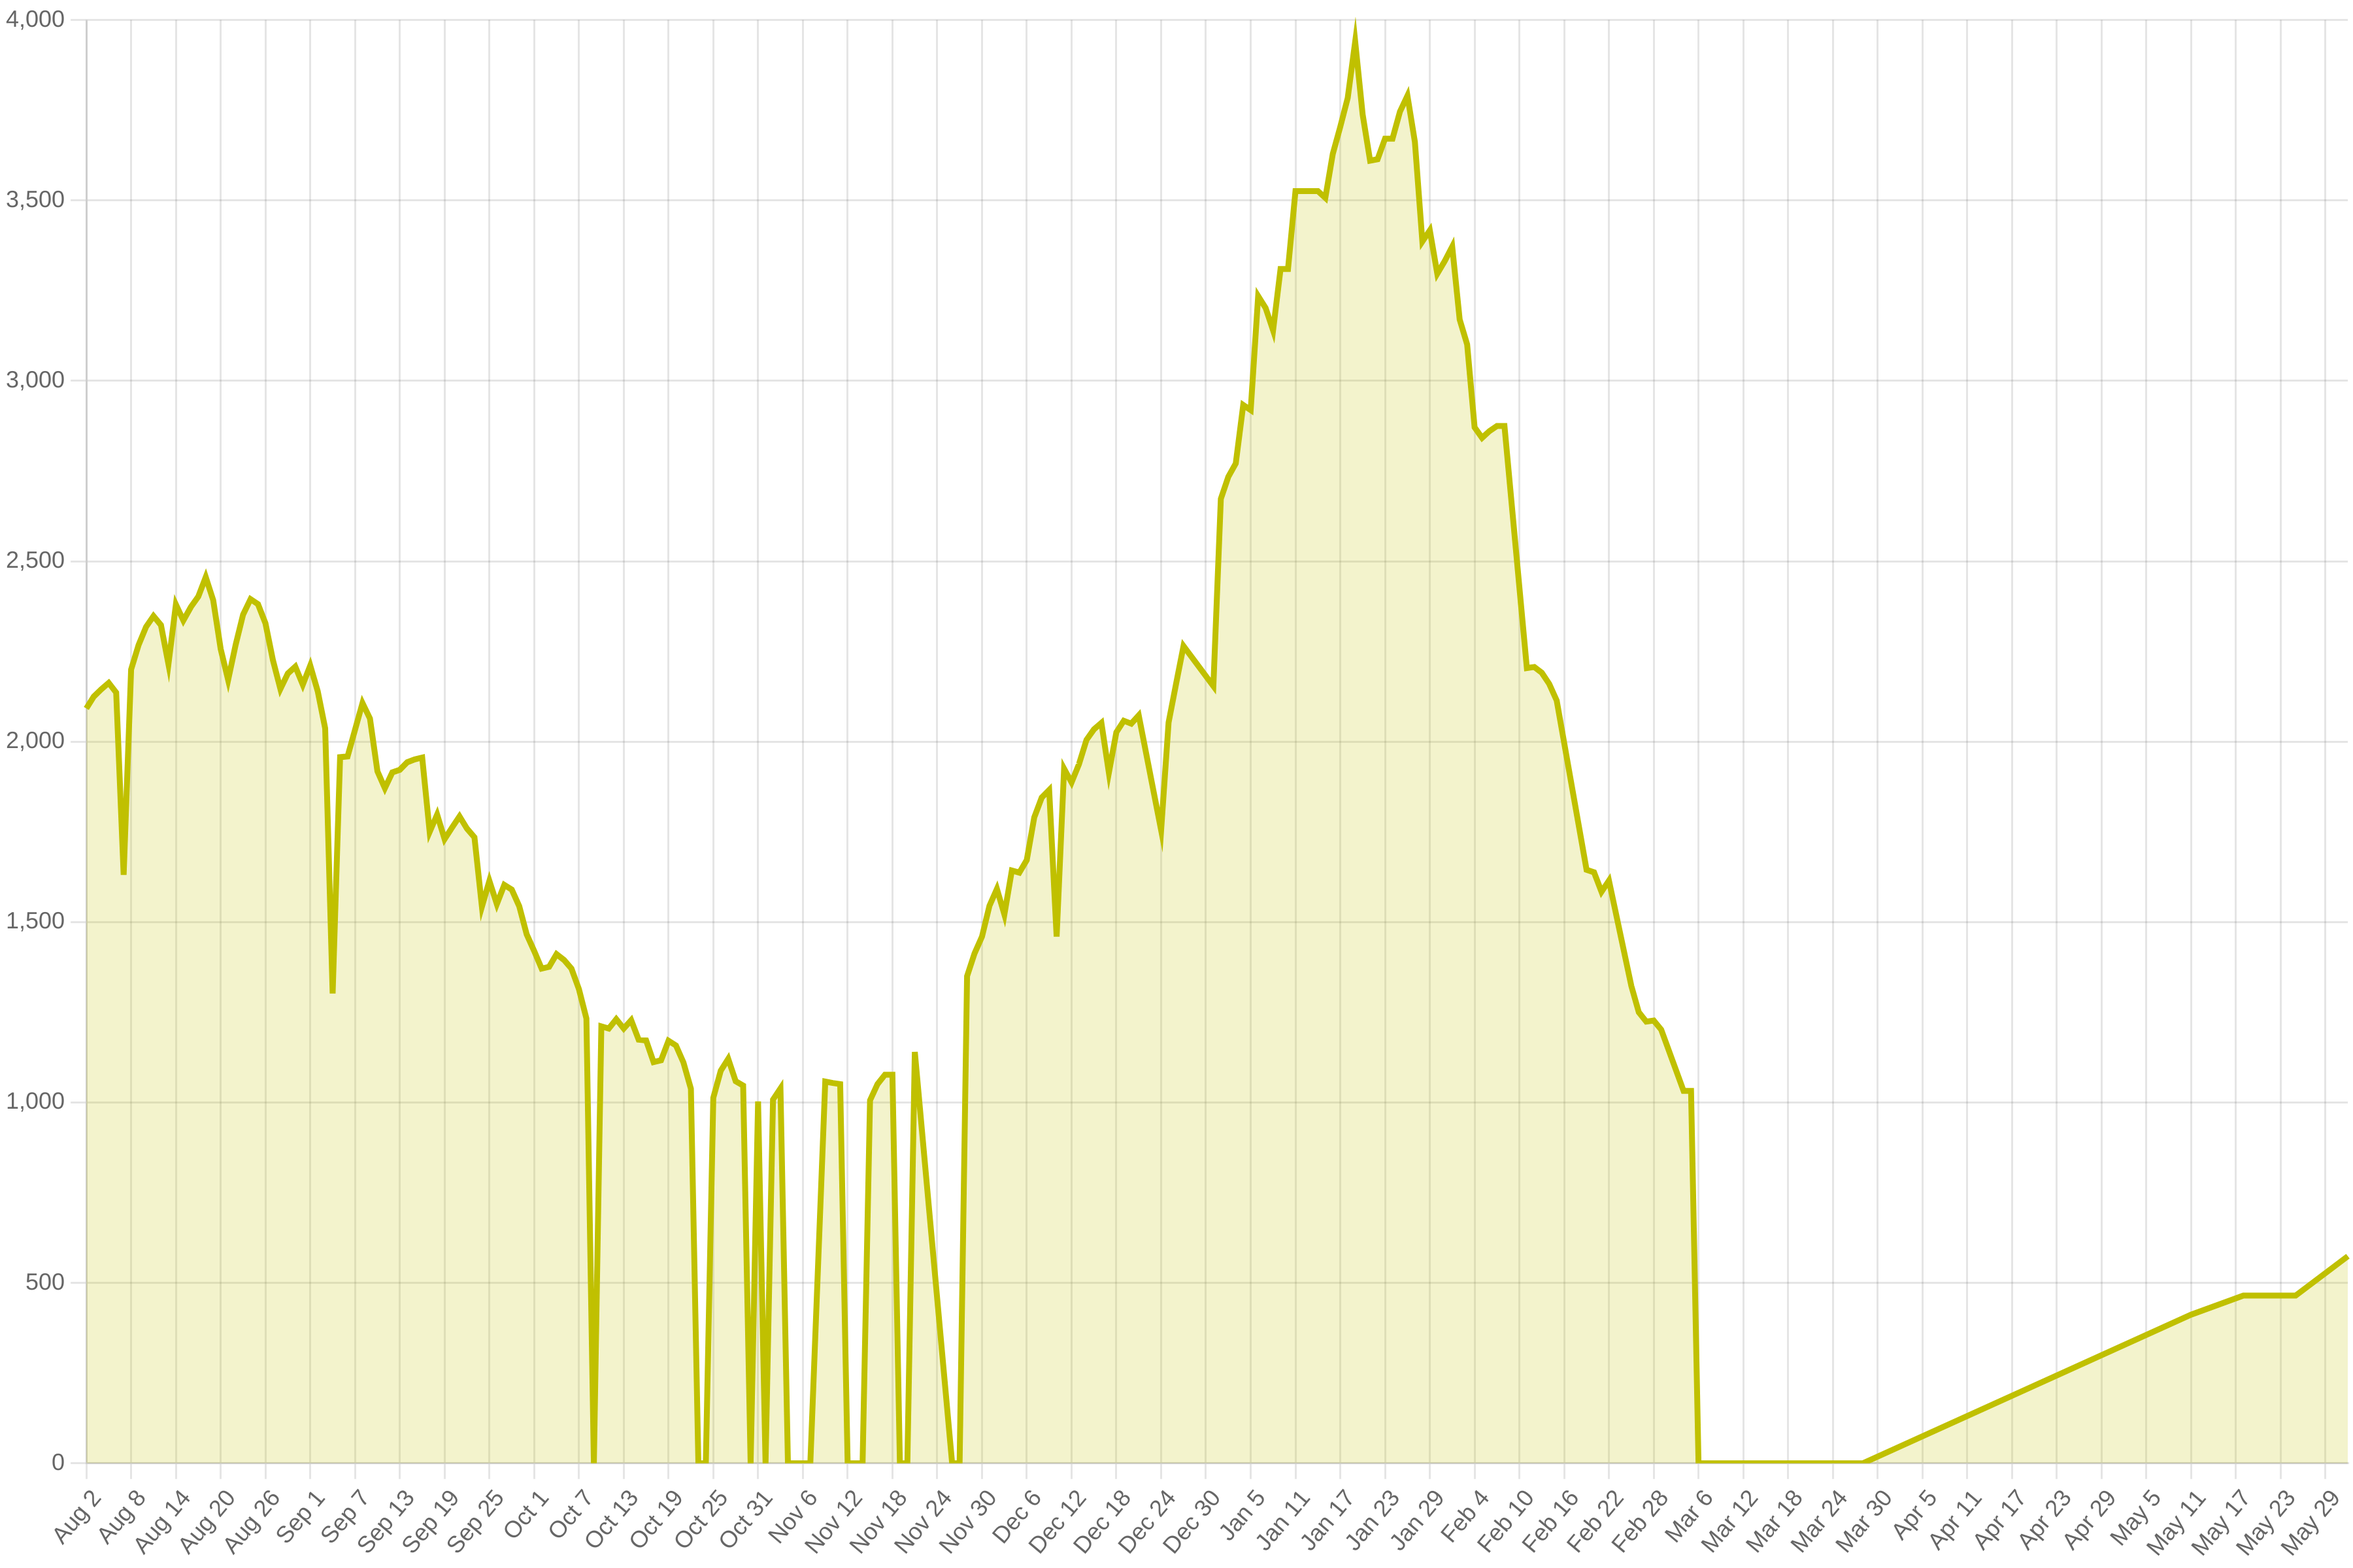
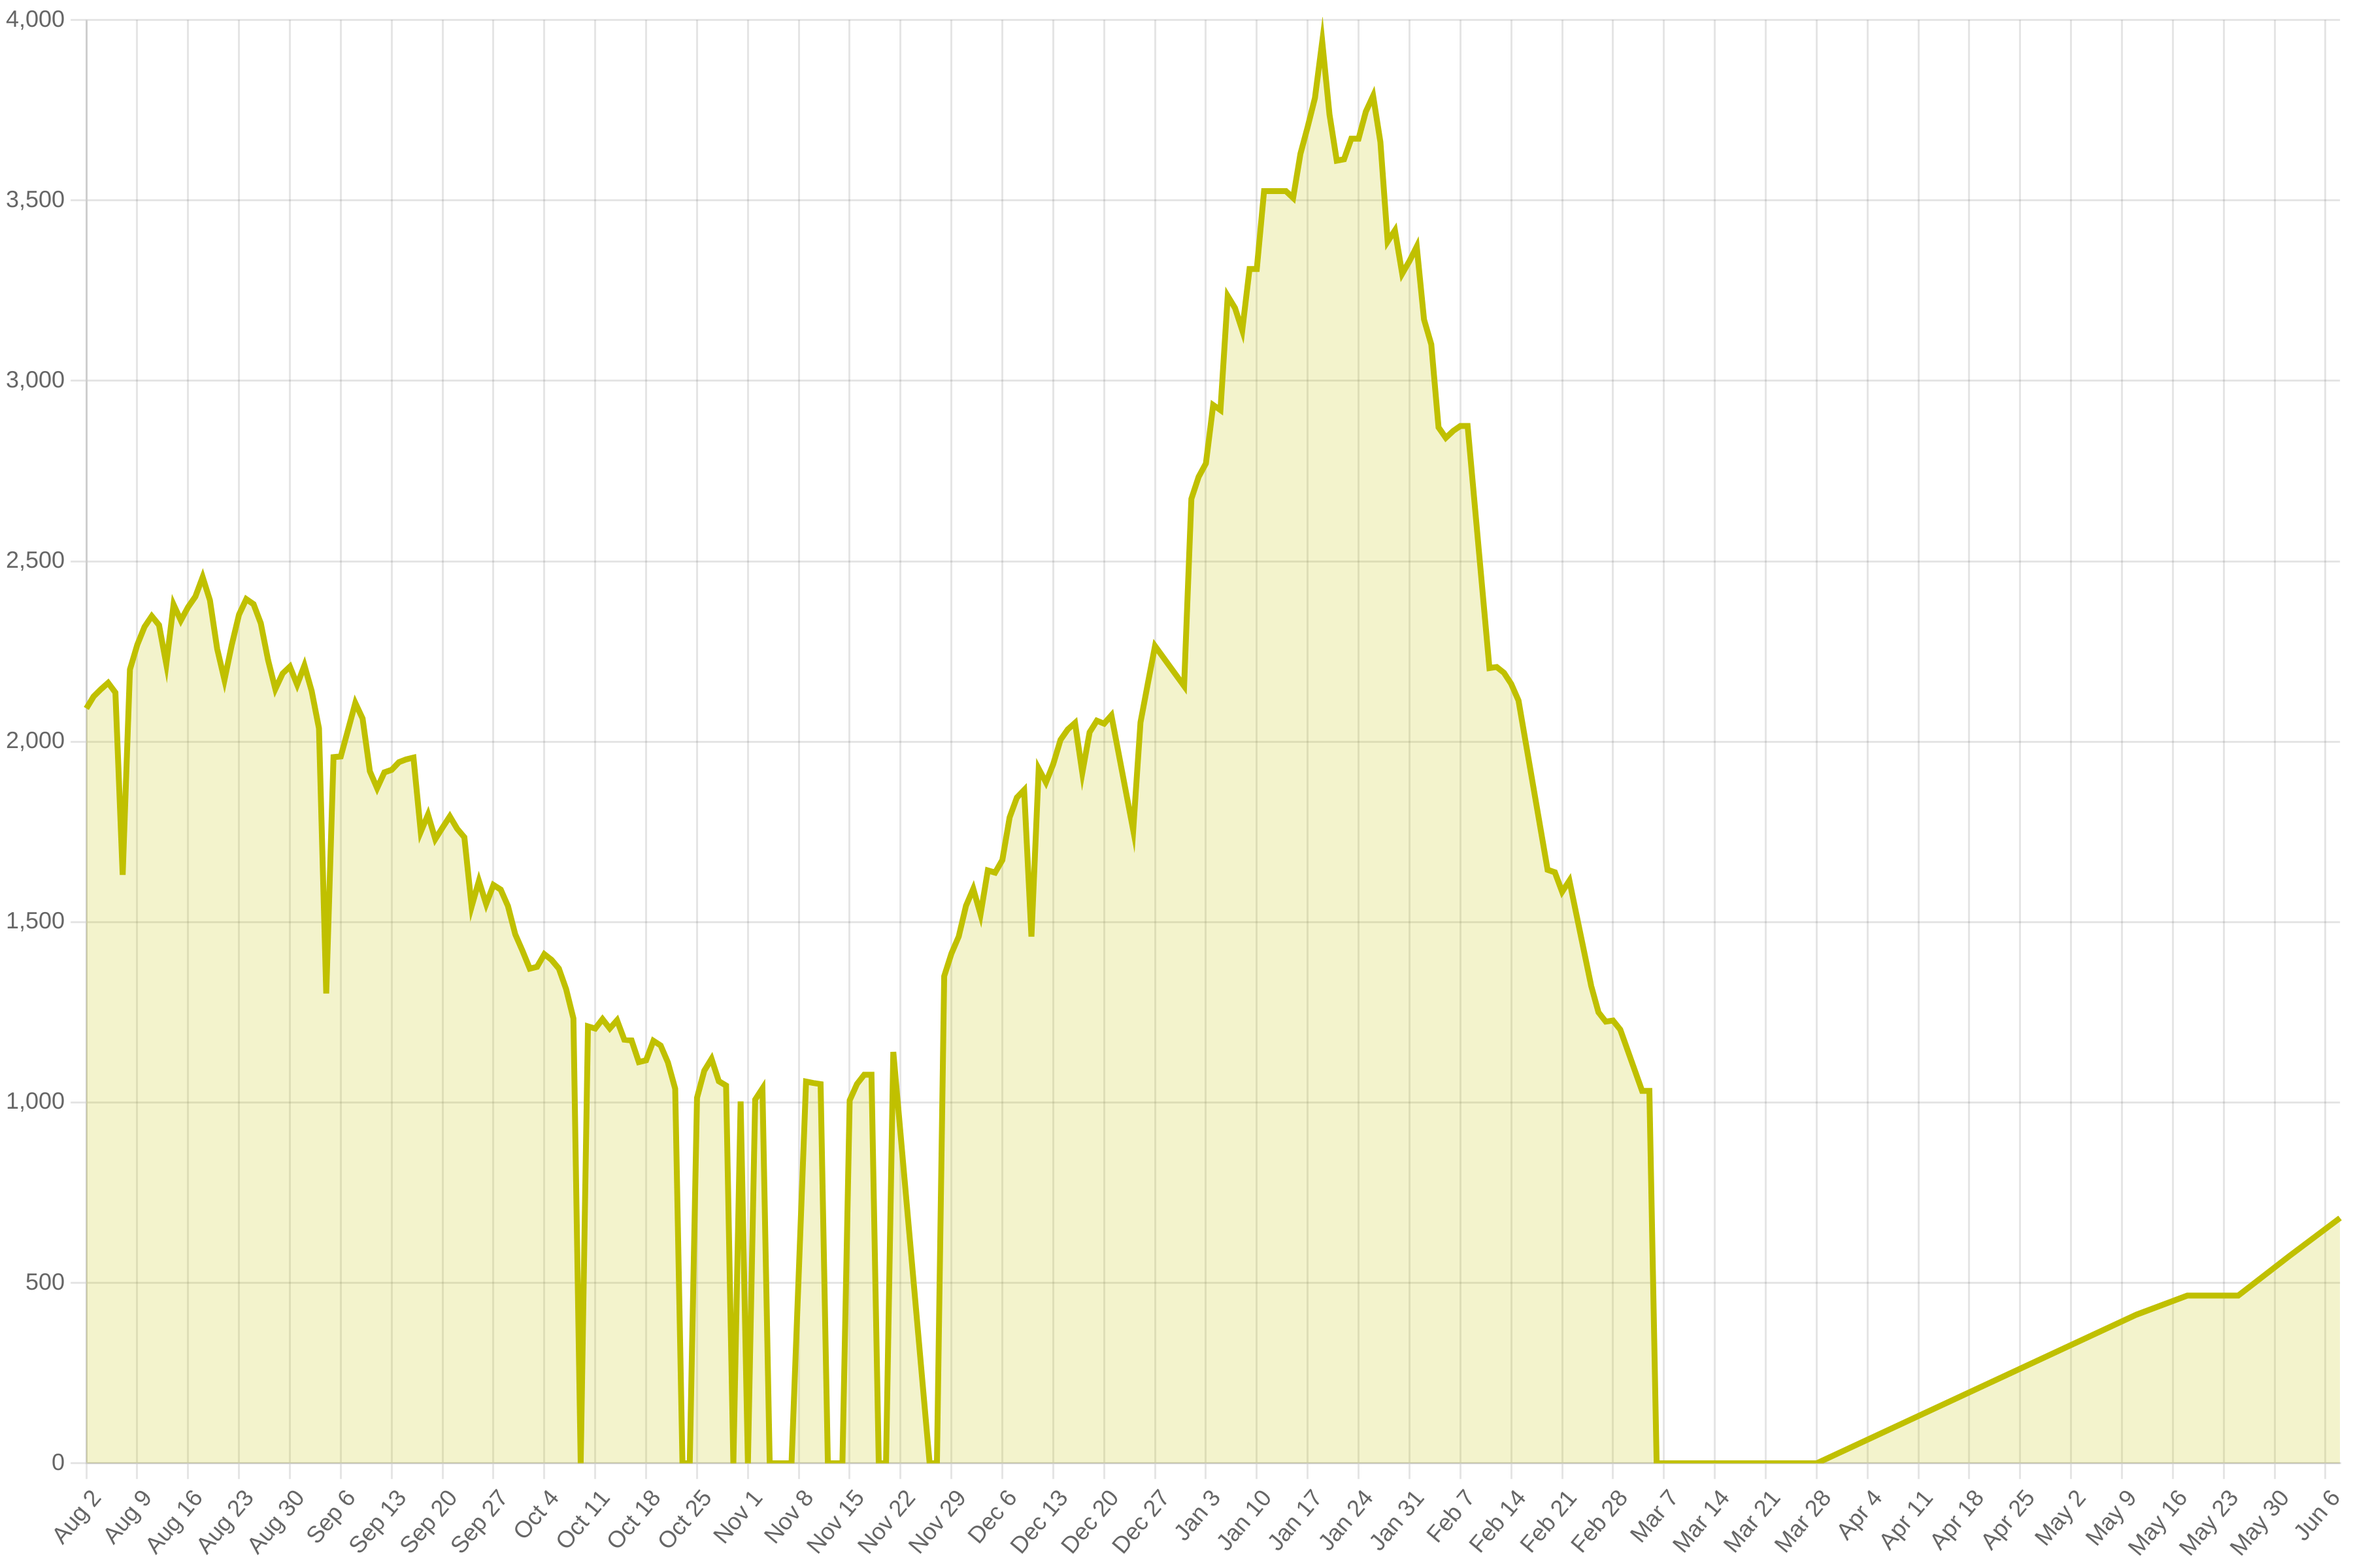
regular update

Changed region(s): [[0.0311, 0.0, 1.0, 1.0]]

diff --git a/docs/index.html b/docs/index.html
@@ -43,10 +43,10 @@
     <main>
       <h1>Missouri COVID data</h1>
       <p>
-        The data on this page was updated <strong>Friday, June 3, 2022</strong>. For
+        The data on this page was updated <strong>Friday, June 10, 2022</strong>. For
         the values that are averages over 7 days, the start date is
-        <strong>Thursday, May 26, 2022</strong> and the end date is
-        <strong>Wednesday, June 1, 2022</strong>. The original data comes from the
+        <strong>Thursday, June 2, 2022</strong> and the end date is
+        <strong>Wednesday, June 8, 2022</strong>. The original data comes from the
         <a
           href="https://results.mo.gov/t/COVID19/views/WeeklyCOVIDMockup_16487370423730/WeeklyReport-Revised-v2?:embed=y&:showVizHome=no&:host_url=https%3A%2F%2Fresults.mo.gov%2F&:embed_code_version=3&:tabs=no&:toolbar=no&:showAppBanner=false&:display_spinner=no&:loadOrderID=0"
           >Missouri Department of Health and Senior Services</a
@@ -79,19 +79,19 @@
 
       <h2>New cases</h2>
       <p>
-        There have been <strong>8,603</strong> new cases in the
-        past 7 days, about <strong>1,229 per day</strong>.
+        There have been <strong>9,731</strong> new cases in the
+        past 7 days, about <strong>1,390 per day</strong>.
       </p>
       <img src="charts/totalPositive.png" />
 
       <h2>Outcomes</h2>
       <p>
-        There are currently 574 people hospitalized with
+        There are currently 680 people hospitalized with
         COVID-19.
       </p>
       <img src="charts/hospitalizations.png" />
 
-      <p>44 people are in intensive care.</p>
+      <p>59 people are in intensive care.</p>
       <img src="charts/icu.png" />
 
       <h2>Unavailable</h2>
